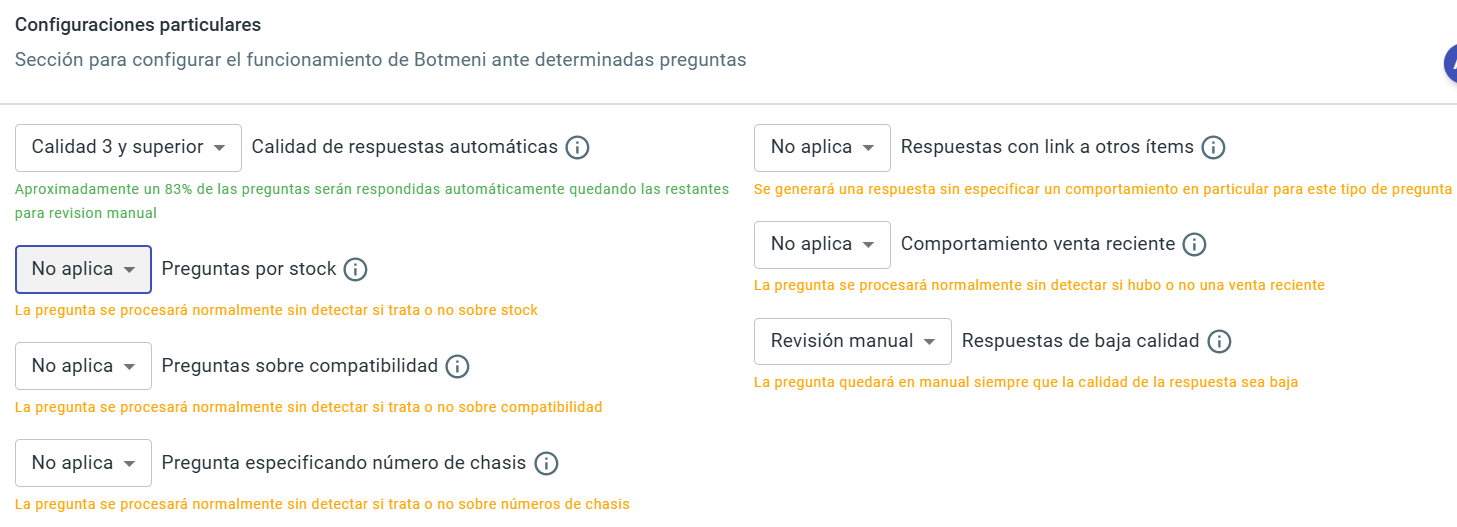
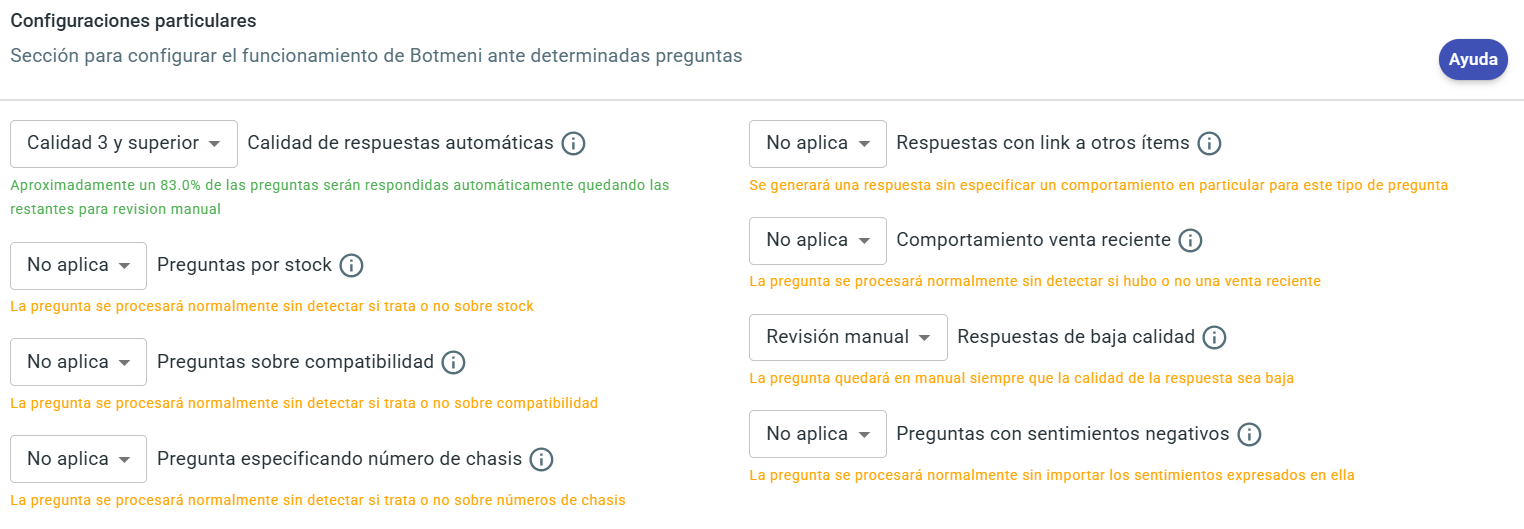
sentimiento1

diff --git a/content/docs/Personaliza_tu_cuenta_de_botmeni/Configuración_comportamiento_respuesta/Sentimiento.md b/content/docs/Personaliza_tu_cuenta_de_botmeni/Configuración_comportamiento_respuesta/Sentimiento.md
@@ -1,0 +1,32 @@
+---
+weight: 568
+title: "Comportamiento de respuesta para preguntas que expresan sentimiento negativo"
+description: "Comportamiento de respuesta para preguntas que expresan sentimiento negativo"
+icon: "category"
+color: "primary"
+date: "2024-04-08T23:13:49-05:00"
+lastmod: "2024-04-08T23:13:49-05:00"
+draft: false
+toc: true
+---
+Botmeni te brinda la posibilidad de personalizar el comportamiento de respuesta para las preguntas que expresen sentimientos negativos.<br></br>
+Existen tres opciones de comportamiento que podrás definir para aquellas preguntas donde se detecte que el usuario está expresando una disconformidad:
+- No aplica: no se personaliza el comportamiento para las preguntas con sentimiento negativo, se procesarán según la configuración que esté definida. 
+- Manual con respuesta: Botmeni generará la respuesta y quedará pendiente para que tu la revises y la envíes (si la configuración de producto, categoría o vertical que le corresponde está definida en modo Automático o Solo analizar)
+- Manual sin respuesta: Botmeni no generará ni enviará respuesta al detectar que se trata de una pregunta que expresa una disconformidad (si la configuración de producto, categoría o vertical que le corresponde está definida en modo Automático o Solo analizar).
+<br></br>
+Para configurar el comportamiento para preguntas asociadas a compatibilidad:
+1. Inicia sesión con un usuario con tipo de rol ADMINISTRADOR, en nuestra página de login <https://prod.botmeni.com/login>.
+2. Haz clic en CONFIGURACIÓN.
+{{< figure width="140px" height="100px" src="/images/general/configuracion.png" >}}
+3. Posiciónate en la sección Configuraciones Particulares
+{{< figure width="840px" height="600px" src="/images/general/particular1.png" >}}
+4. Despliega el listado de comportamientos presionando el ícono triángulo invertido. 
+{{< figure width="840px" height="600px" src="/images/general/particular_sentimiento1.png" >}}
+5. Selecciona el comportamiento deseado.
+{{< figure width="840px" height="600px" src="/images/general/particular_sentimiento2.png" >}}	
+<br></br>
+Independientemente de la selección recién mencionada, las preguntas se consideran procesadas cuando la configuración por producto, categoría, vertical u horario que corresponda esté definida en modo Automático o Solo responder. Esto se debe a que implementar el comportamiento definido en esta sección requiere de análisis previo para identificar el tipo de pregunta del cual se trata.<br></br>
+El comportamiento recién descripto puede variar en caso de que hayas definido comportamientos específicos para Horarios o fechas.<br></br>
+Para conocer cómo configurar el comportamiento de respuesta en horarios específicos para preguntas relacionadas con compatibilidad, dirígete a la sección [Comportamiento según horarios](../Configuración_comportamiento_respuesta/Horarios_solo_analizar.md) disponible en la guía.<br></br>
+Los pasos para definir el comportamiento de respuesta de preguntas sobre compatibilidad en fechas específicas, están detallados en la sección [Comportamiento según fecha](../Configuración_comportamiento_respuesta/Dias_festivos.md).<br></br>
